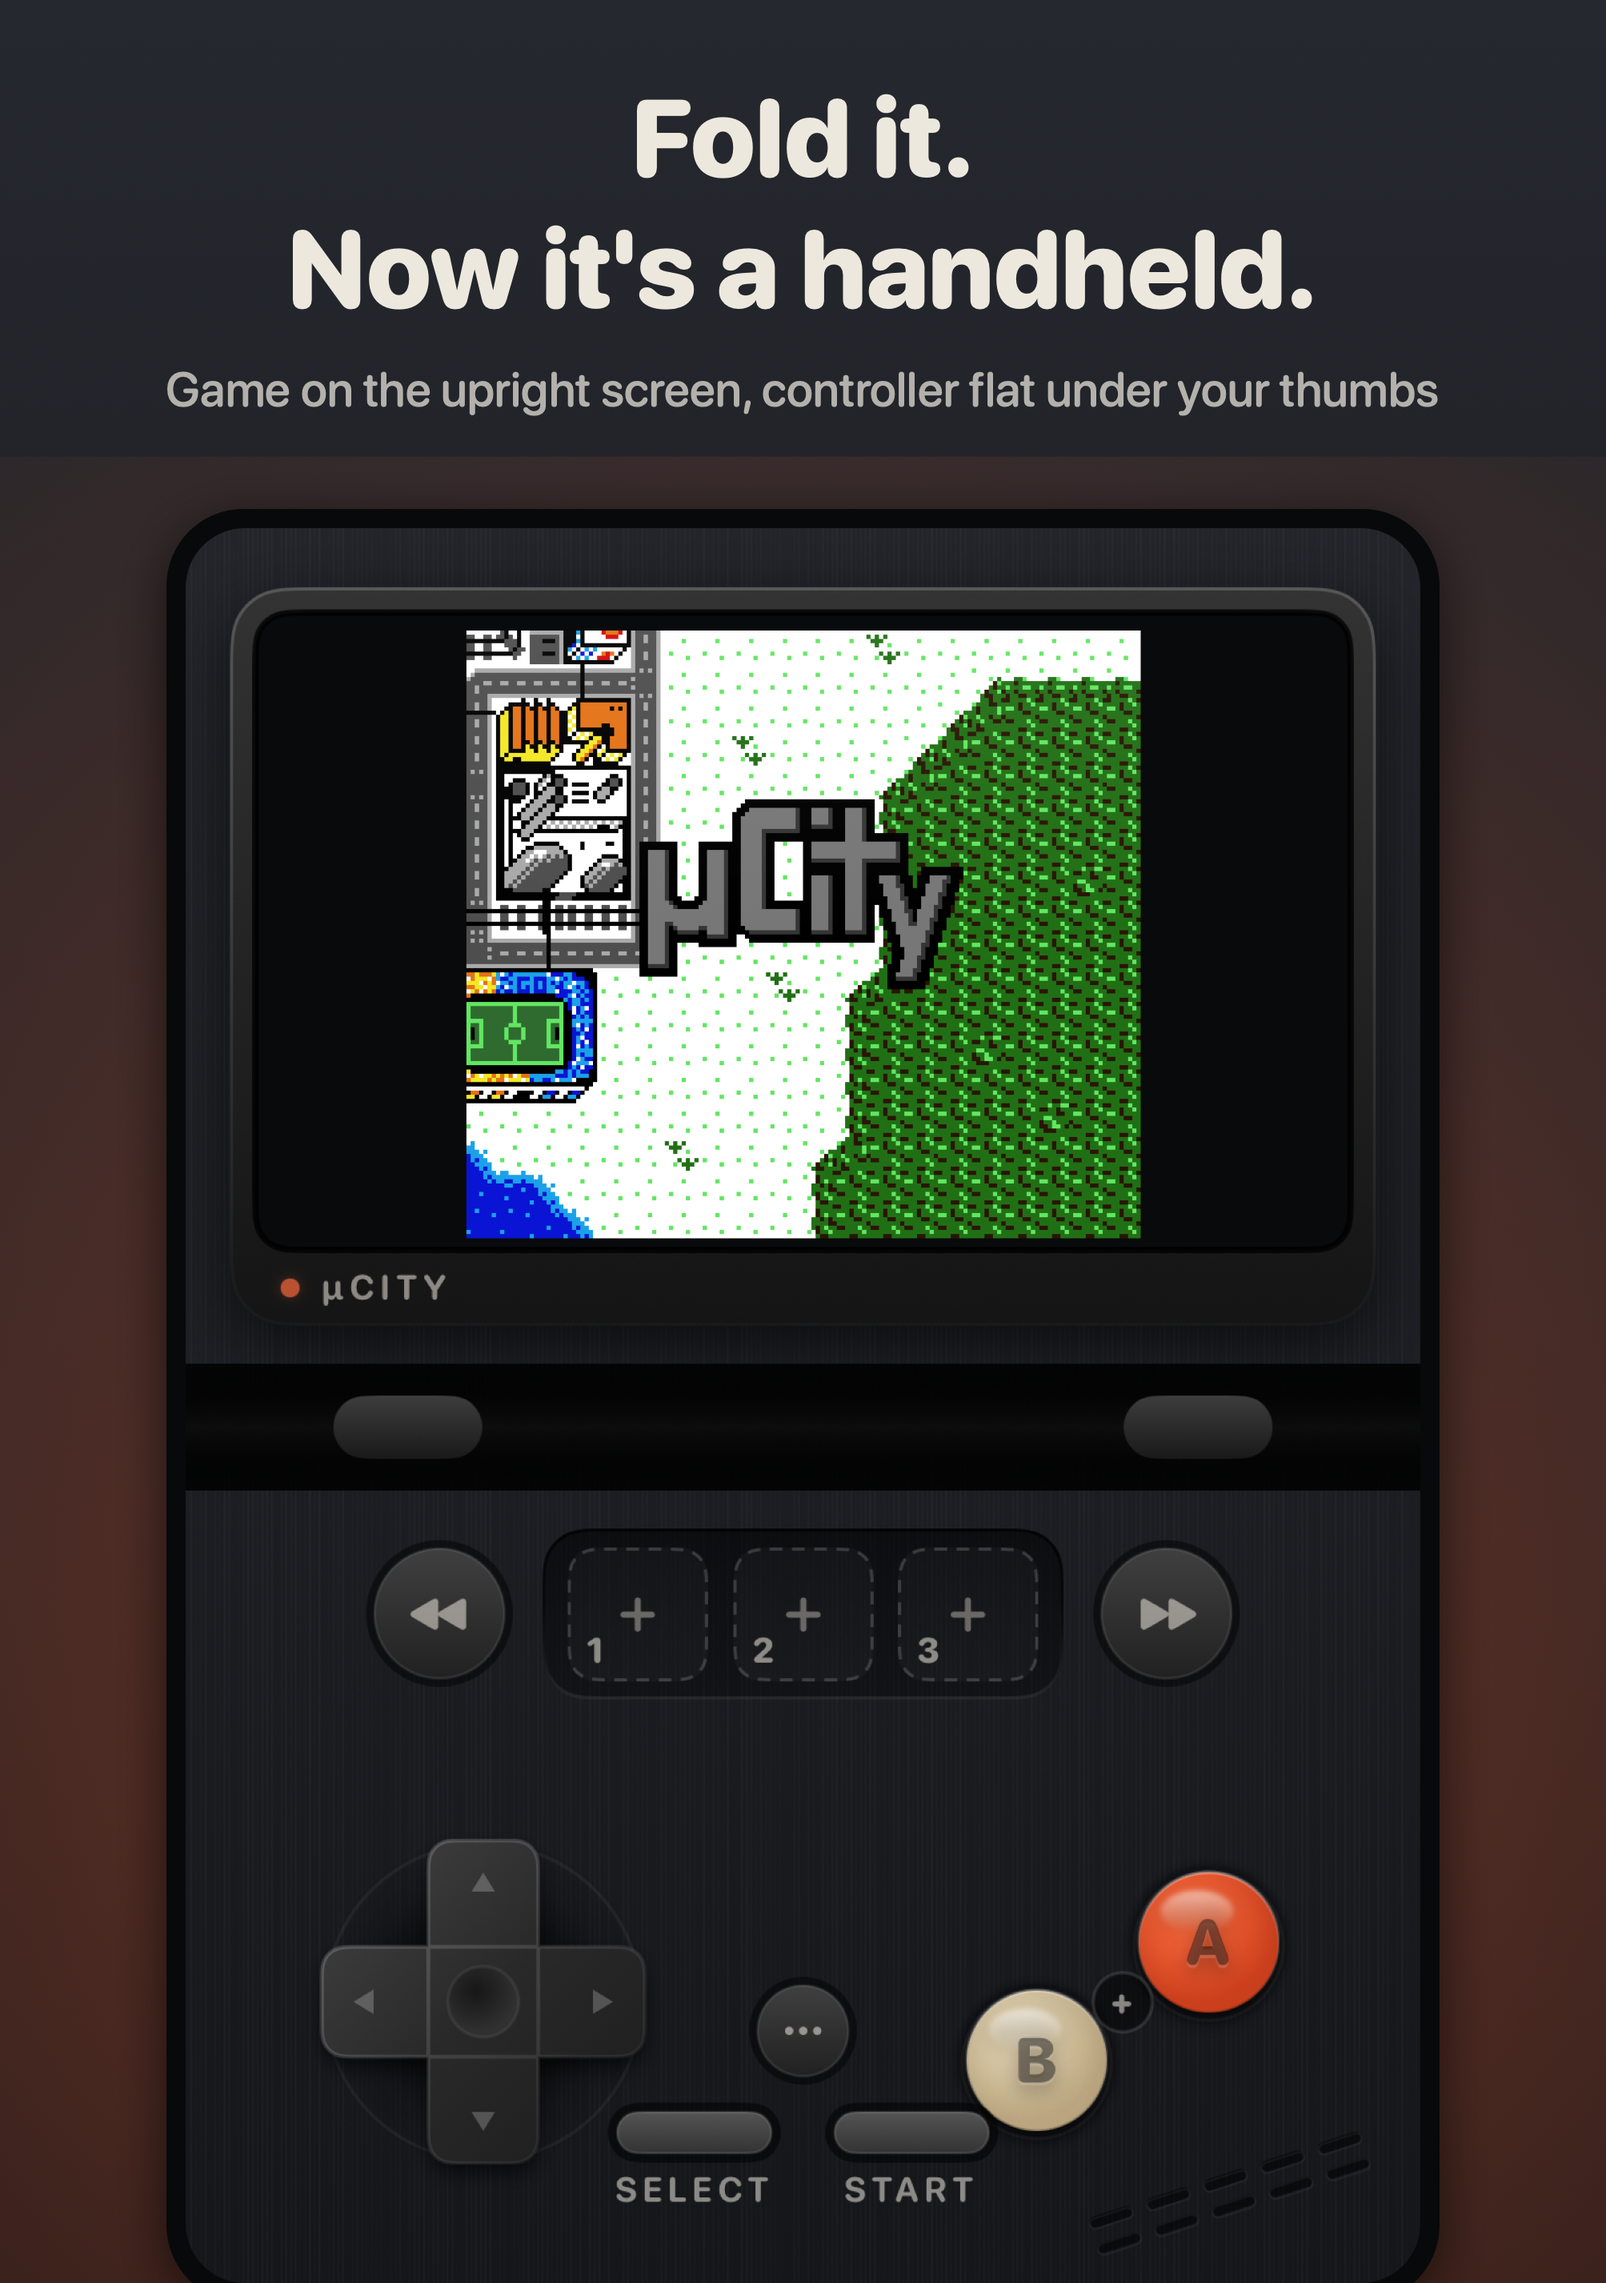
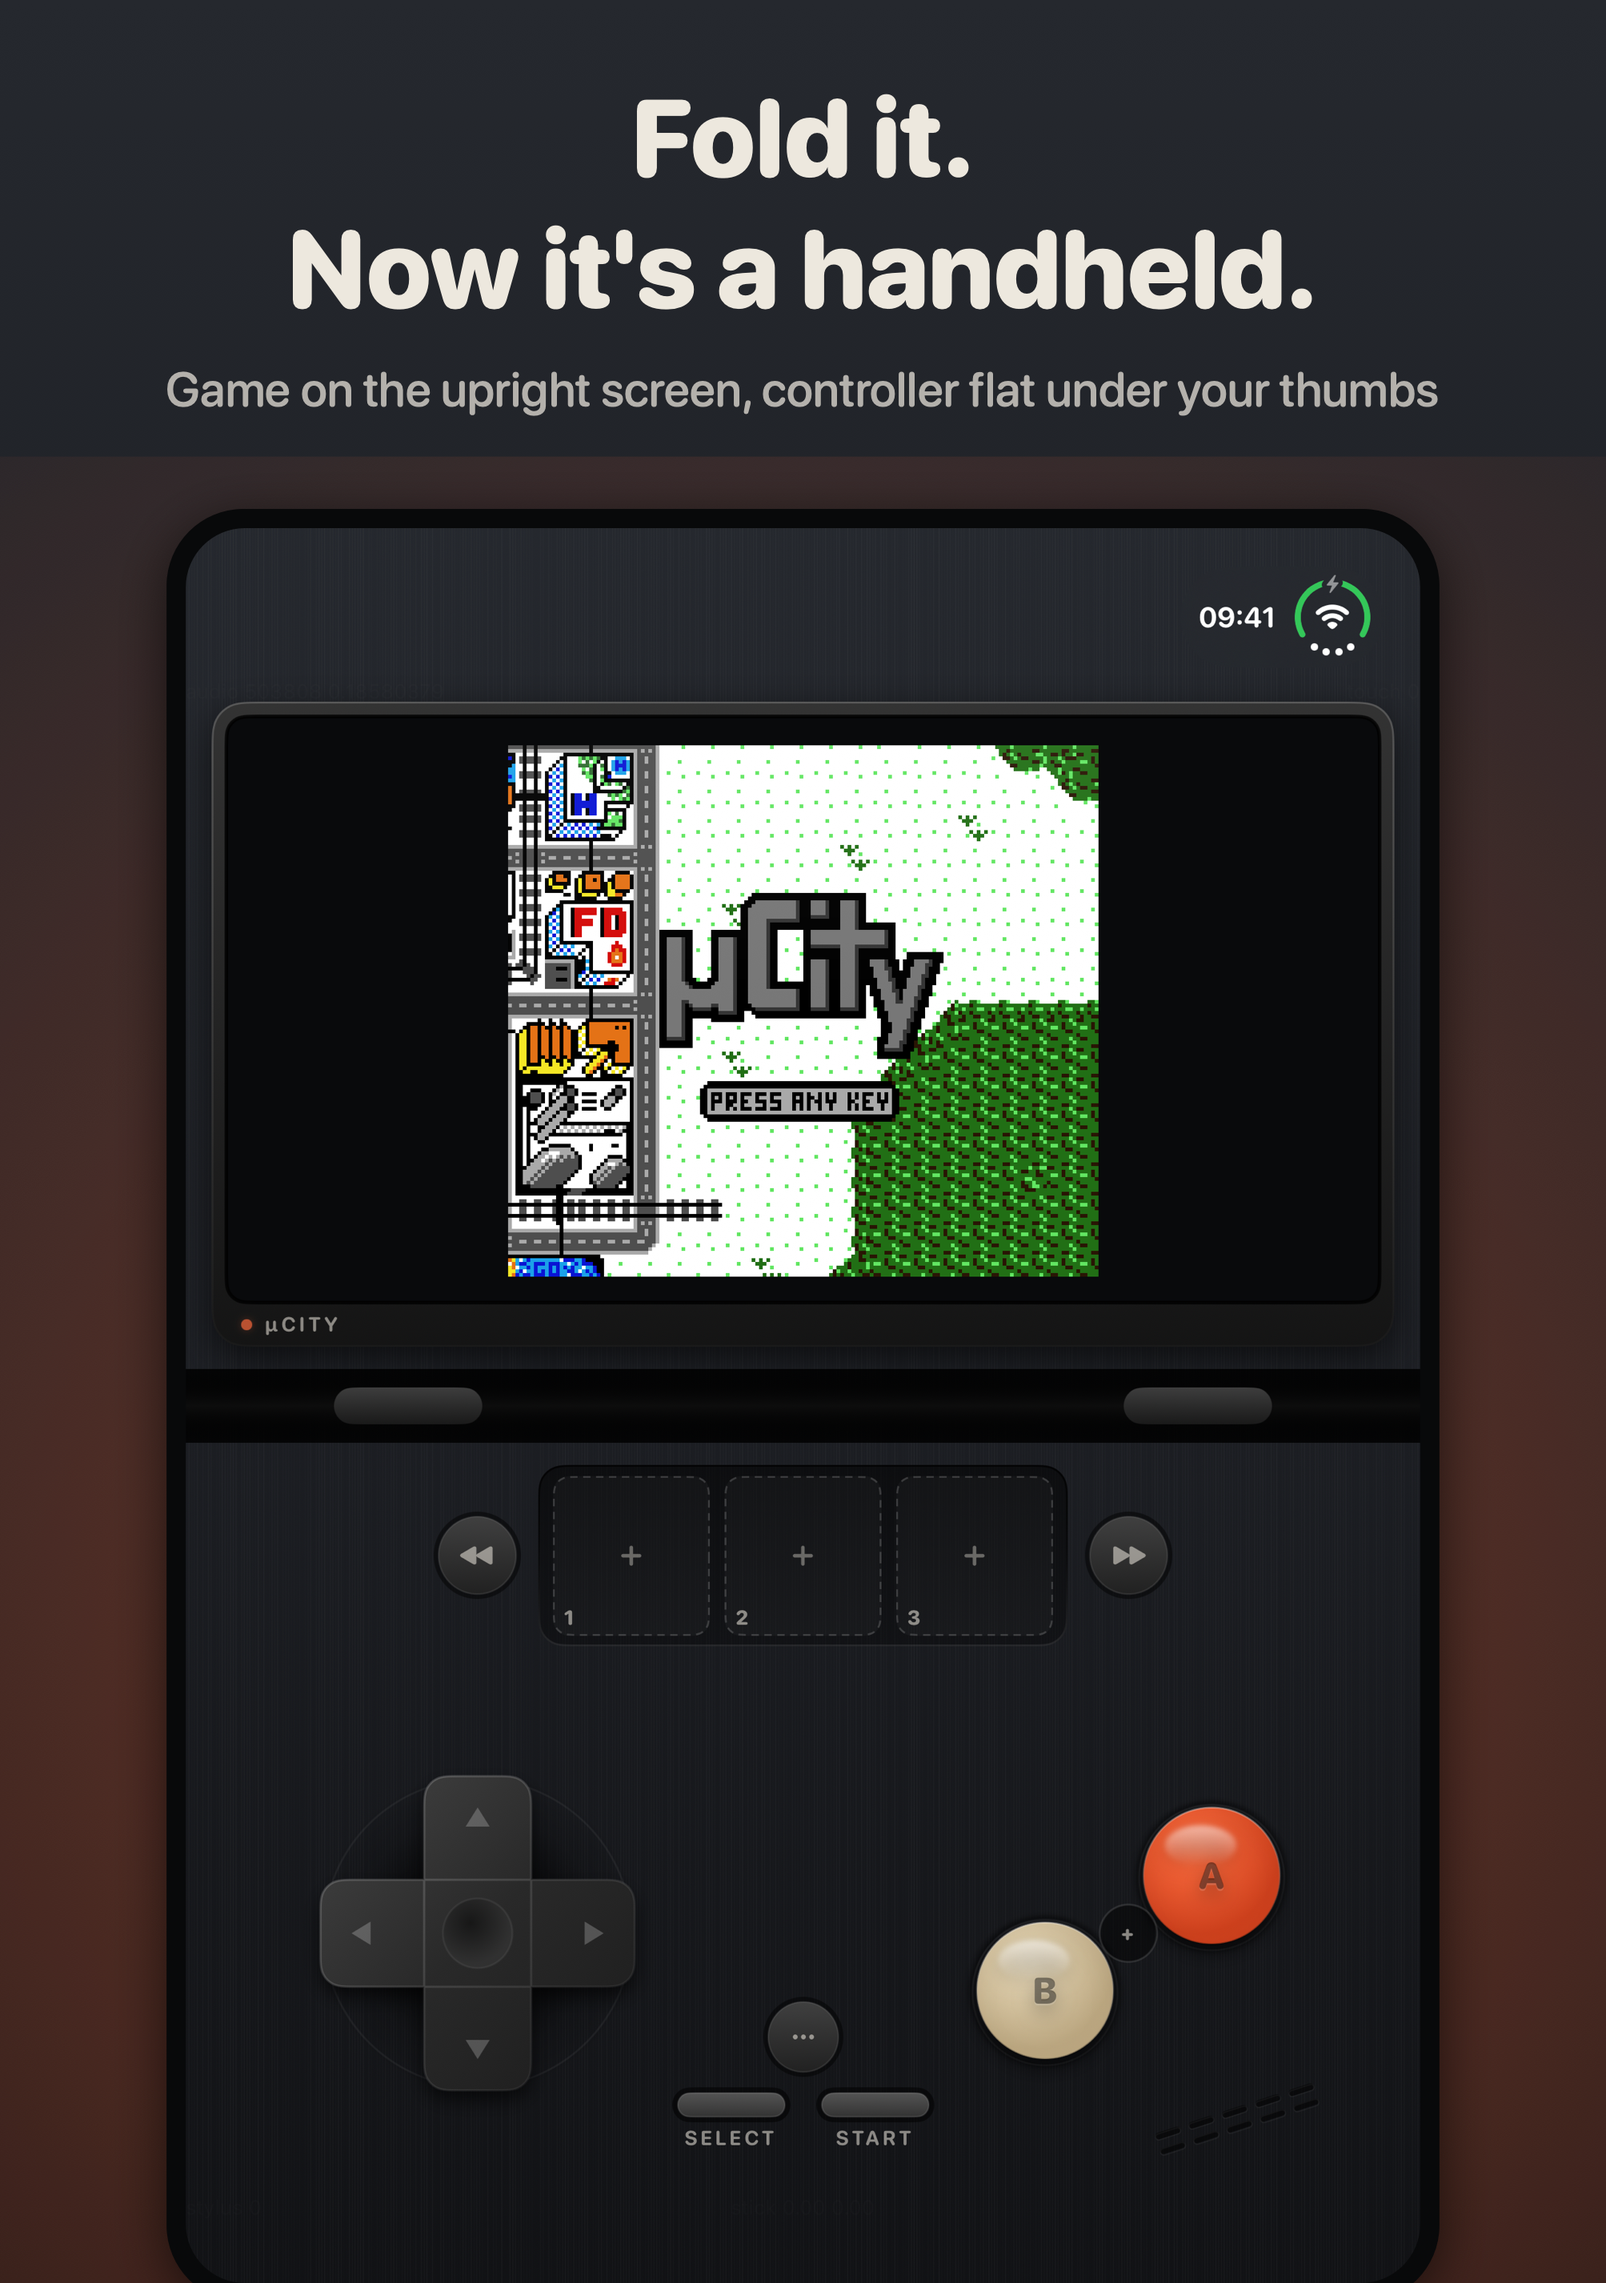
Duo inner store shots retaken on the real Duo simulator

diff --git a/HANDOFF.md b/HANDOFF.md
@@ -67,7 +67,7 @@ Commits 5becb5b, 4c06a58, 97d7671, eed8236, 7e8a6dd (+ the build-7 HANDOFF commi
   outer display. When a slot frees up, run `-forceFold YES -logStage YES` on Games Duo; it logs the real insets.
 
 **Screenshots** are composed by `docs/store/compose.swift` from iPhone 17e simulator captures of the bundled demos.
-The Duo shots come from DEBUG `-pose` captures cropped to the Duo's 1.42 canvas, not from the Duo simulator.
+The Duo **inner** shots were retaken 2026-11-17 on the real iPhone Duo simulator (Relics Duo BD9038FF, unfolded, `--display=LCD-1`, `-forceFold YES`; the 84 pt right-edge status bar is clear of everything). The **outer** shots are still the earlier 17e-based ones: the outer display only lights when the sim is folded, which only Gordon can do.
 - **Duo inner, 2007x2853:** `docs/store/shots/duo-inner/` holds 6 shots: table µCity, table Thwaite with the quick-slot
   thumbnails, table DS (our own test cart; the caption doesn't claim a game), book Alex vs Bus, flat Libbet, and the
   shelf in table pose.
